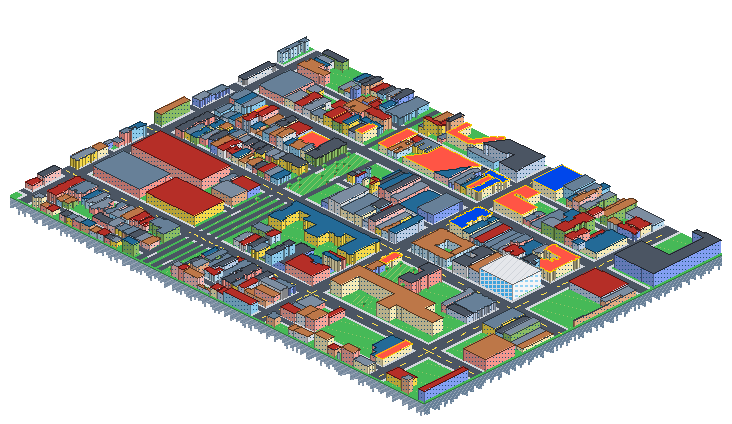
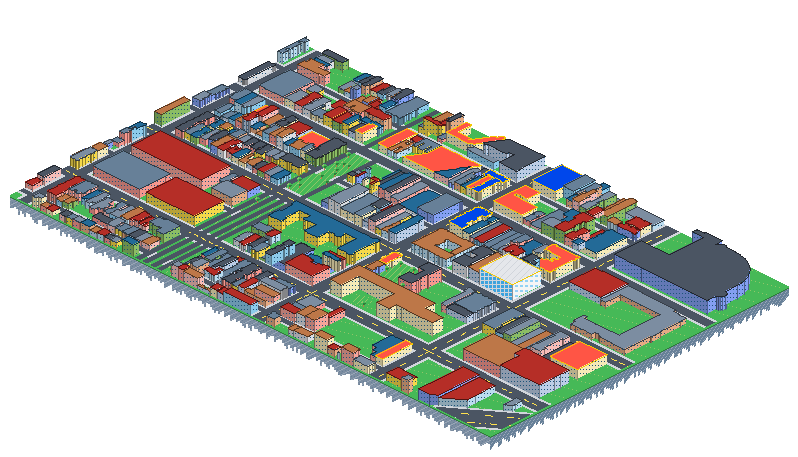
Lunch plans: add Pacifico and Pokebola, apply review fixes
Pacifico serves Wednesday lunch inside SFJAZZ, and Pokebola is open both days at 77 Van Ness, so the map now reaches Van Ness. The Markdown twin gains addresses and price notes, stat labels stay readable to screen readers on desktop, and the sort and map buttons keep their space while the page loads.

diff --git a/src/data/lunch-2026.js b/src/data/lunch-2026.js
@@ -17,10 +17,14 @@
 //   tables) have a published count. The rest are guesses from the room.
 // - `walk` is minutes from the SFJAZZ door along the street grid at 75 m a minute.
 //   scripts/px-lunch.mjs prints these from `lat`/`lon`.
+// - Pacifico runs lunch in b-side, the bar inside SFJAZZ. Its own site is the
+//   source for hours (closed Tuesday, Wednesday 11:30 am to 2:30 pm); Yelp says
+//   2 pm and SFJAZZ's b-side page lists evenings only. `seats` is BizBash's 110
+//   seated for the b-side room, which may not all be open at lunch.
+//   Yelp's /biz/pacifico-san-francisco is a different place, at the Ferry Building.
 // Not listed for lunch: Absinthe (OpenTable still shows a weekday lunch, but its
-// own site opens at 4 pm on Tuesday and Wednesday), Suppenküche and Zuni (dinner
-// only on these days, per listings), and b-side inside SFJAZZ (its page lists
-// Thursday to Sunday evenings and show days).
+// own site opens at 4 pm on Tuesday and Wednesday), and Suppenküche and Zuni
+// (dinner only on these days, per listings).
 
 export const VENUE = { name: "SFJAZZ", lat: 37.7763779, lon: -122.4215694 };
 export const SLACK_CHANNEL = "#conference-2026-lunch-plans";
@@ -31,6 +35,27 @@ const directions = (address) =>
   `https://www.google.com/maps/dir/?api=1&origin=SFJAZZ+Center,+201+Franklin+St,+San+Francisco&destination=${encodeURIComponent(`${address}, San Francisco, CA`)}&travelmode=walking`;
 
 const lunchPlaces = [
+  {
+    id: "pacifico",
+    name: "Pacifico",
+    kitchen: "Colombian and Peruvian, inside SFJAZZ",
+    address: "201 Franklin St",
+    lat: VENUE.lat,
+    lon: VENUE.lon,
+    walk: 1,
+    seats: 110,
+    yelp: 4.5,
+    reviews: "27",
+    lunch: 15,
+    lunchNote: "Bowl, protein extra. Ceviche $20+",
+    signature: "Steak arepa, grilled steak or chicken bowl",
+    veg: "Smokey veggie bowl, hearts of palm ceviche",
+    fish: "Halibut ceviche with fried calamari",
+    hours: "Wednesday 11:30 am to 2:30 pm",
+    menu: "https://www.pacificosf.com/lunch-menu",
+    sprite: "fish",
+    days: "Wed only",
+  },
   {
     id: "lers-ros",
     name: "Lers Ros",
@@ -145,6 +170,25 @@ const lunchPlaces = [
     hours: "10:30 am to 11:30 pm",
     menu: "https://www.thebirdsf.com/menu/",
     sprite: "chick",
+  },
+  {
+    id: "pokebola",
+    name: "Pokebola",
+    kitchen: "Build-your-own poke bowls",
+    address: "77 Van Ness Ave",
+    lat: 37.7760682,
+    lon: -122.4198648,
+    walk: 3,
+    seats: 15,
+    yelp: 4.1,
+    reviews: "111",
+    lunch: 17,
+    signature: "Chicken teriyaki bowl",
+    veg: "Yasai tofu bowl",
+    fish: "Rainbow Love, salmon bowl",
+    hours: "11 am to 9 pm",
+    menu: "https://order.online/business/11458538",
+    sprite: "bowl",
   },
   {
     id: "a-mano",

diff --git a/src/lib/llm-content.js b/src/lib/llm-content.js
@@ -67,7 +67,6 @@ import {
   places as lunchPlaces,
   afterTalks,
   SLACK_CHANNEL,
-  SLACK_URL,
   SOURCE_NOTE as LUNCH_NOTE,
   MAP_CREDIT,
 } from "../data/lunch-2026.js";
@@ -708,9 +707,9 @@ ${FAQ_ITEMS.map((item) => `### ${item.question}\n${plain(item.answer)}`).join("\
 
 export function lunchMarkdown() {
   const row = (p) =>
-    `| ${p.name}${p.days ? ` (${p.days})` : ""} | ${p.kitchen} | ${p.walk} min | ~${p.seats} | ${p.yelp} (${p.reviews}) | $${p.lunch} | ${p.signature} | ${p.veg} | ${p.fish ?? "None on the menu"} | ${p.hours} | [Menu](${p.menu}) |`;
+    `| ${p.name}${p.days ? ` (${p.days})` : ""} | ${p.kitchen} | ${p.address} | ${p.walk} min | ~${p.seats} | ${p.yelp.toFixed(1)} (${p.reviews}) | $${p.lunch}${p.lunchNote ? ` (${p.lunchNote})` : ""} | ${p.signature} | ${p.veg} | ${p.fish ?? "None on the menu"} | ${p.hours} | [Menu](${p.menu}) |`;
   const evening = (p) =>
-    `- **${p.name}**, ${p.address}: ${p.kitchen}. ${p.walk} min walk. ${p.hours}. ${p.note}${p.capacity ? ` ${p.capacity}.` : ""}${p.yelp ? ` Yelp ${p.yelp} (${p.reviews}).` : ""} [${p.linkLabel}](${p.link})`;
+    `- **${p.name}**, ${p.address}: ${p.kitchen}. ${p.walk} min walk. ${p.hours}. ${p.note}${p.capacity ? ` ${p.capacity}.` : ""}${p.yelp ? ` Yelp ${p.yelp.toFixed(1)} (${p.reviews}).` : ""} [${p.linkLabel}](${p.link})`;
   const breaks = days
     .slice(0, 2)
     .map((d) => {
@@ -720,12 +719,12 @@ export function lunchMarkdown() {
     .join("\n");
   return `# Lunch plans
 
-> Where to eat near SFJAZZ during the San Francisco Ruby Conference. Make plans with other attendees in ${SLACK_CHANNEL} on [Slack](${SLACK_URL}).
+> Where to eat near SFJAZZ during the San Francisco Ruby Conference. Make plans with other attendees in ${SLACK_CHANNEL} on [Slack](${SLACK_INVITE}).
 
 ${breaks}
 
-| Place | Kitchen | Walk | Seats (est.) | Yelp | Lunch | Signature | Vegetarian | Fish | Hours | Menu |
-|---|---|---|---|---|---|---|---|---|---|---|
+| Place | Kitchen | Address | Walk | Seats (est.) | Yelp | Lunch | Signature | Vegetarian | Fish | Hours | Menu |
+|---|---|---|---|---|---|---|---|---|---|---|---|
 ${lunchPlaces.map(row).join("\n")}
 
 ## After the talks
